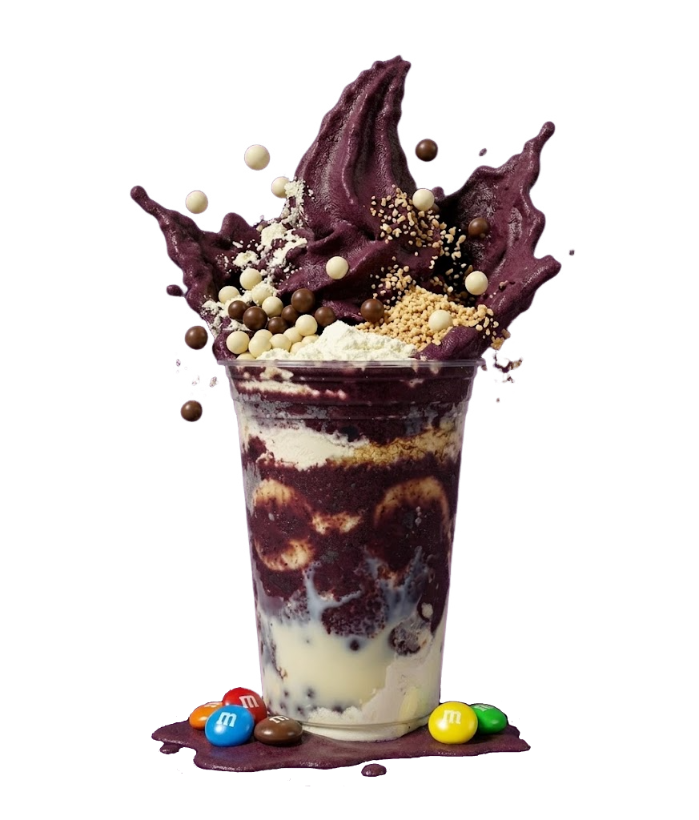
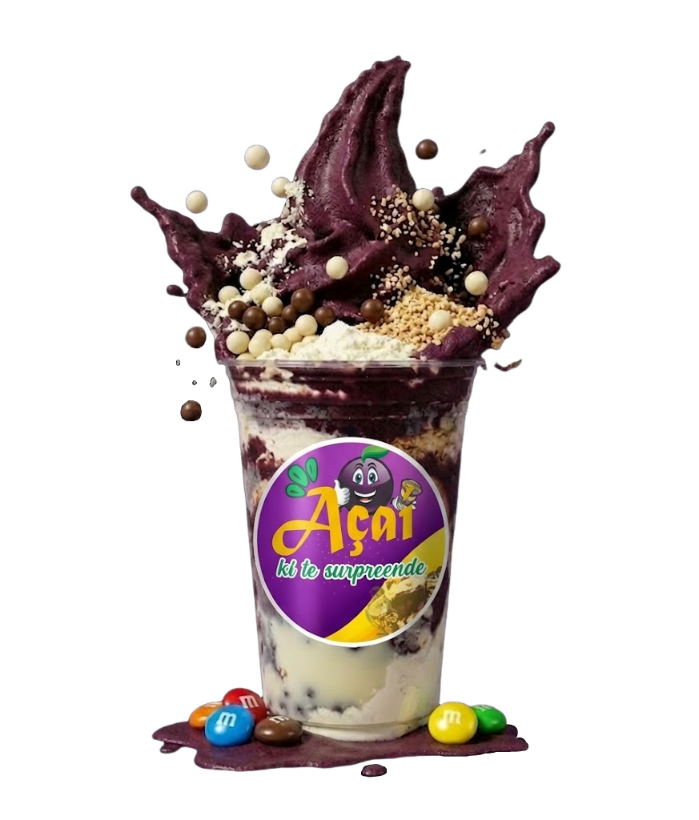
feat(contatos): cria e estiliza seção de contatos e atualiza imagem da seção sobre

diff --git a/style/styles.css b/style/styles.css
@@ -196,7 +196,8 @@ header .logo img {
     margin:auto;
 }
 
-.container-cardapio h2{font-family: "Bebas Neue", sans-serif;
+.container-cardapio h2{
+    font-family: "Bebas Neue", sans-serif;
     font-weight: 400;
     font-style: normal;
     font-size: clamp(1.5rem, 5vw, 3rem);
@@ -514,3 +515,116 @@ header .logo img {
 .img-instagram{
     width: 30px;
 }
+/* fim da seção sobre */
+
+                                        /* incio da seção contato */
+
+
+.section-contato{
+    padding:80px 20px;
+    background:#f7f7f7;
+}
+
+.container-contato{
+    max-width:1100px;
+    margin:auto;
+    text-align:center;
+}
+
+.container-contato h2{
+     font-family: "Bebas Neue", sans-serif;
+    font-weight: 400;
+    font-style: normal;
+    font-size: clamp(1.5rem, 5vw, 3rem);
+    color:#3a0a5c;
+    margin-bottom:10px;
+}
+
+.subtitulo{
+    color:#000000d5;
+    margin-bottom:50px;
+}
+
+.contato-grid{
+    display:grid;
+    grid-template-columns:repeat(auto-fit,minmax(220px,1fr));
+    gap:25px;
+    margin-bottom:40px;
+}
+
+.contato-grid a {
+    text-decoration: none;
+}
+
+.contato-card{
+    background:white;
+    padding:25px;
+    border-radius:12px;
+    box-shadow:0 4px 12px rgba(0,0,0,0.08);
+    transition:0.3s;
+}
+
+.container-contato img {
+    filter: invert(60%) sepia(85%) saturate(4000%) hue-rotate(265deg) brightness(70%) contrast(110%);
+    width: 40px;
+    margin-bottom: 5px;
+}
+
+.contato-card:hover{
+    transform:translateY(-5px);
+    box-shadow:0 8px 18px rgba(0,0,0,0.15);
+}
+
+.contato-card h3{
+    color:#3a0a5c;
+    margin-bottom:10px;
+}
+
+.contato-card p{
+    color:#000000d5;
+}
+
+.btn-whatsapp{
+    display:inline-block;
+    margin-top:20px;
+    padding:14px 30px;
+    background:#3a0a5c;
+    color:white;
+    text-decoration:none;
+    font-weight:600;
+    border-radius:8px;
+    transition:0.3s;
+}
+
+.btn-whatsapp:hover{
+    background:#3a0a5ce9;
+}
+/* ff 
+
+
+.section-contato{
+    padding: 80px 20px ;
+    
+    background-color: #390e42e5;
+}
+
+.container-contato{
+    display: flex;
+    justify-content: center;
+    flex-direction: column;
+    align-items: center;
+    gap: 15px;
+}
+
+.container-contato h2 {
+    font-family: "Bebas Neue", sans-serif;
+    font-weight: 400;
+    font-style: normal;
+    font-size: clamp(1.5rem, 5vw, 3rem);
+    margin-bottom: 10px;
+    color: white;
+}
+
+
+
+*/

diff --git a/index.html b/index.html
@@ -190,10 +190,53 @@
             </p>
             <p class="paragrafo-sobre">Nosso objetivo é proporcionar uma experiência única, permitindo que cada pessoa monte o seu açaí do jeito que preferir, com diversas coberturas, frutas e complementos deliciosos.</p>
           </div>
-          <img src="imagens/unnamed.png" alt="" class="img-sobre">
+          <img src="imagens/logo3.png" alt="" class="img-sobre">
         </div>
       </section>
-      <!--<img src="imagens/instagram.png" alt="logo do instagram" class="img-instagram">-->
+
+    <section class="section-contato">
+      <div class="container-contato">
+
+      <h2>Contato</h2>
+      <p class="subtitulo">Fale com a gente ou venha nos visitar.</p>
+
+      <div class="contato-grid">
+
+      <div class="contato-card">
+        <img src="imagens/address-icon.png" alt="">
+        <h3>Endereço</h3>
+        <p>Rua Exemplo, 123</p>
+      </div>
+
+      <a href="https://wa.me/559884952669" target="_blank">
+        <div class="contato-card">
+          <img src="imagens/whatsapp-color-icon.png" alt="">
+          <h3>WhatsApp</h3>
+          <p>+55 98 8495-2669</p>
+        </div>
+      </a>
+
+      <div class="contato-card">
+        <img src="imagens/clock-icon.png" alt="">
+        <h3>Horário</h3>
+        <p>17h às 22h</p>
+      </div>
+
+      <a href="https://www.instagram.com/acai_ki_te_surpreende?utm_source=ig_web_button_share_sheet&igsh=ZDNlZDc0MzIxNw==" target="_blank">
+        <div class="contato-card">
+          <img src="imagens/instagram.png" alt="">
+          <h3>Instagram</h3>
+          <p>@acai_ki_te_surpreende</p>
+        </div>
+      </a>
+
+      </div>
+
+      <a href="https://wa.me/559884952669" class="btn-whatsapp" target="_blank">Pedir Agora</a>
+
+      </div>
+    </section>
+      
 
     </main>
   </body>
